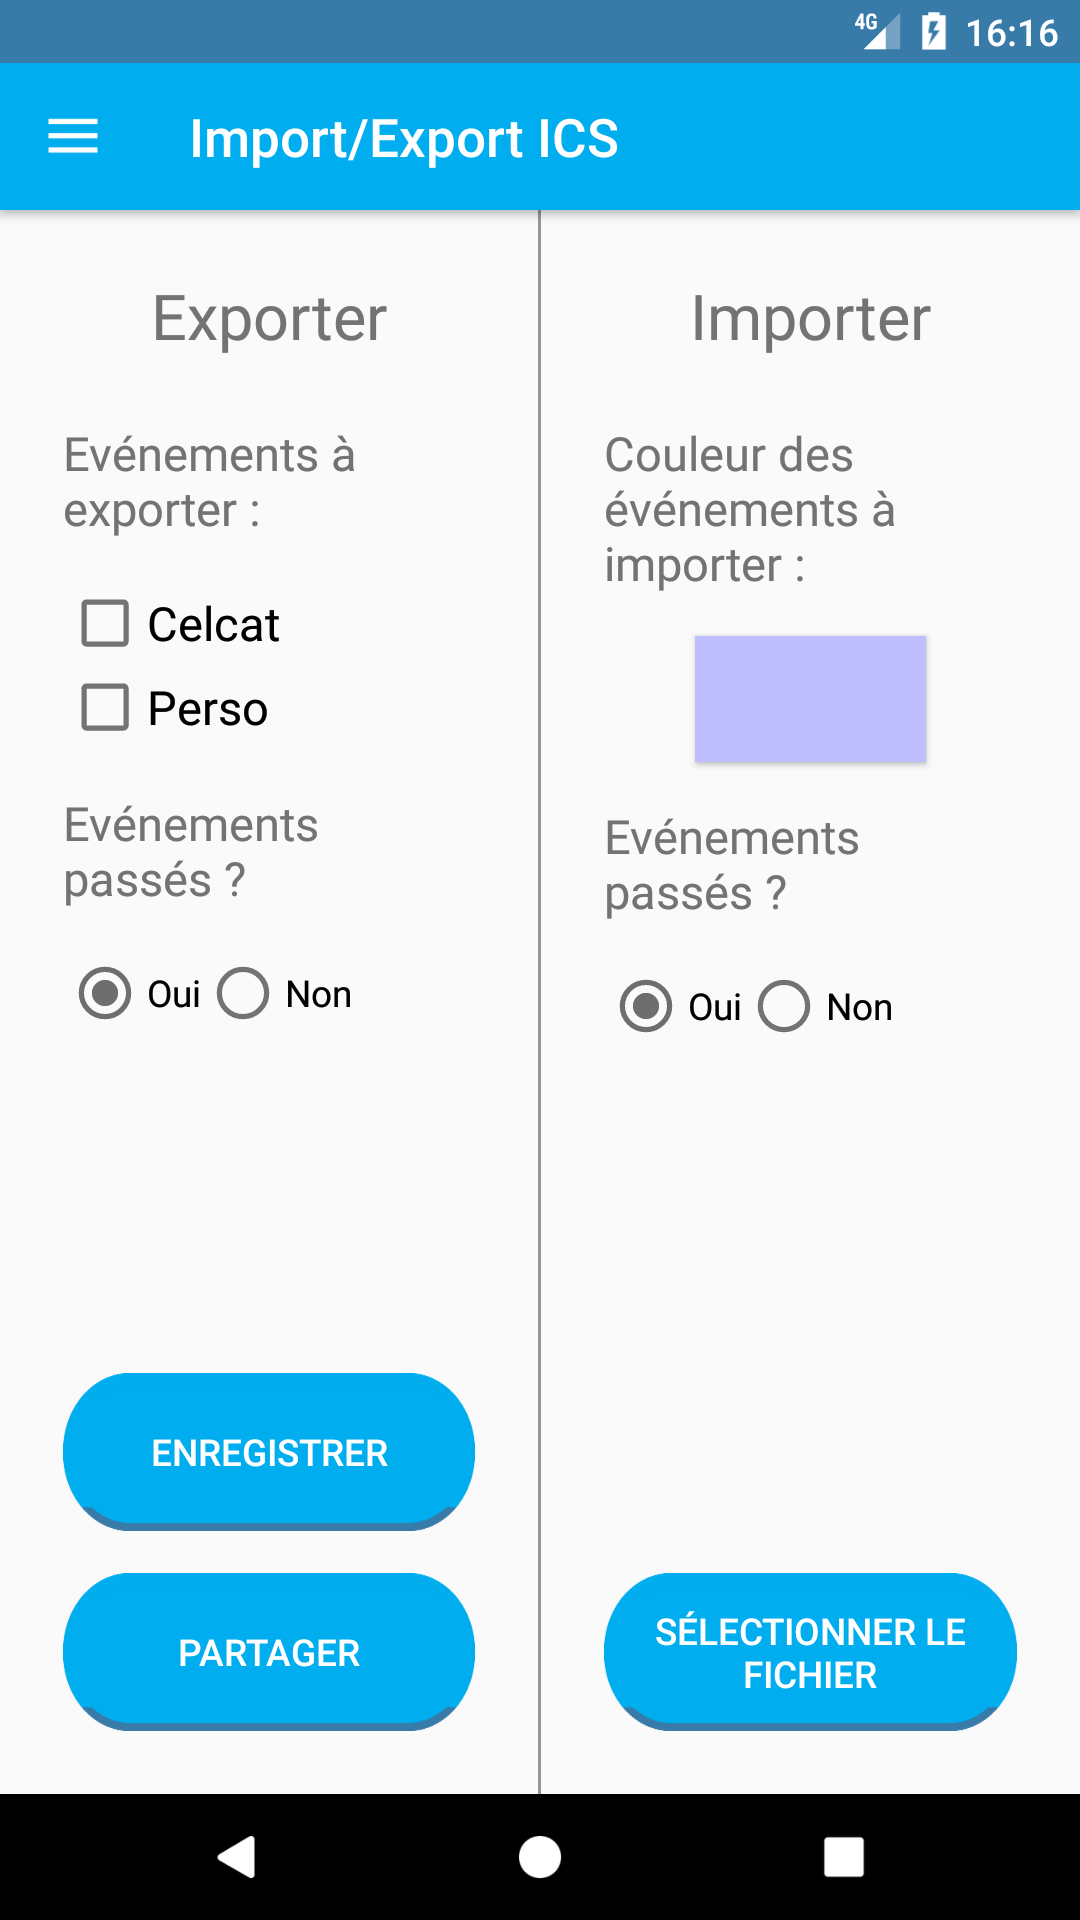
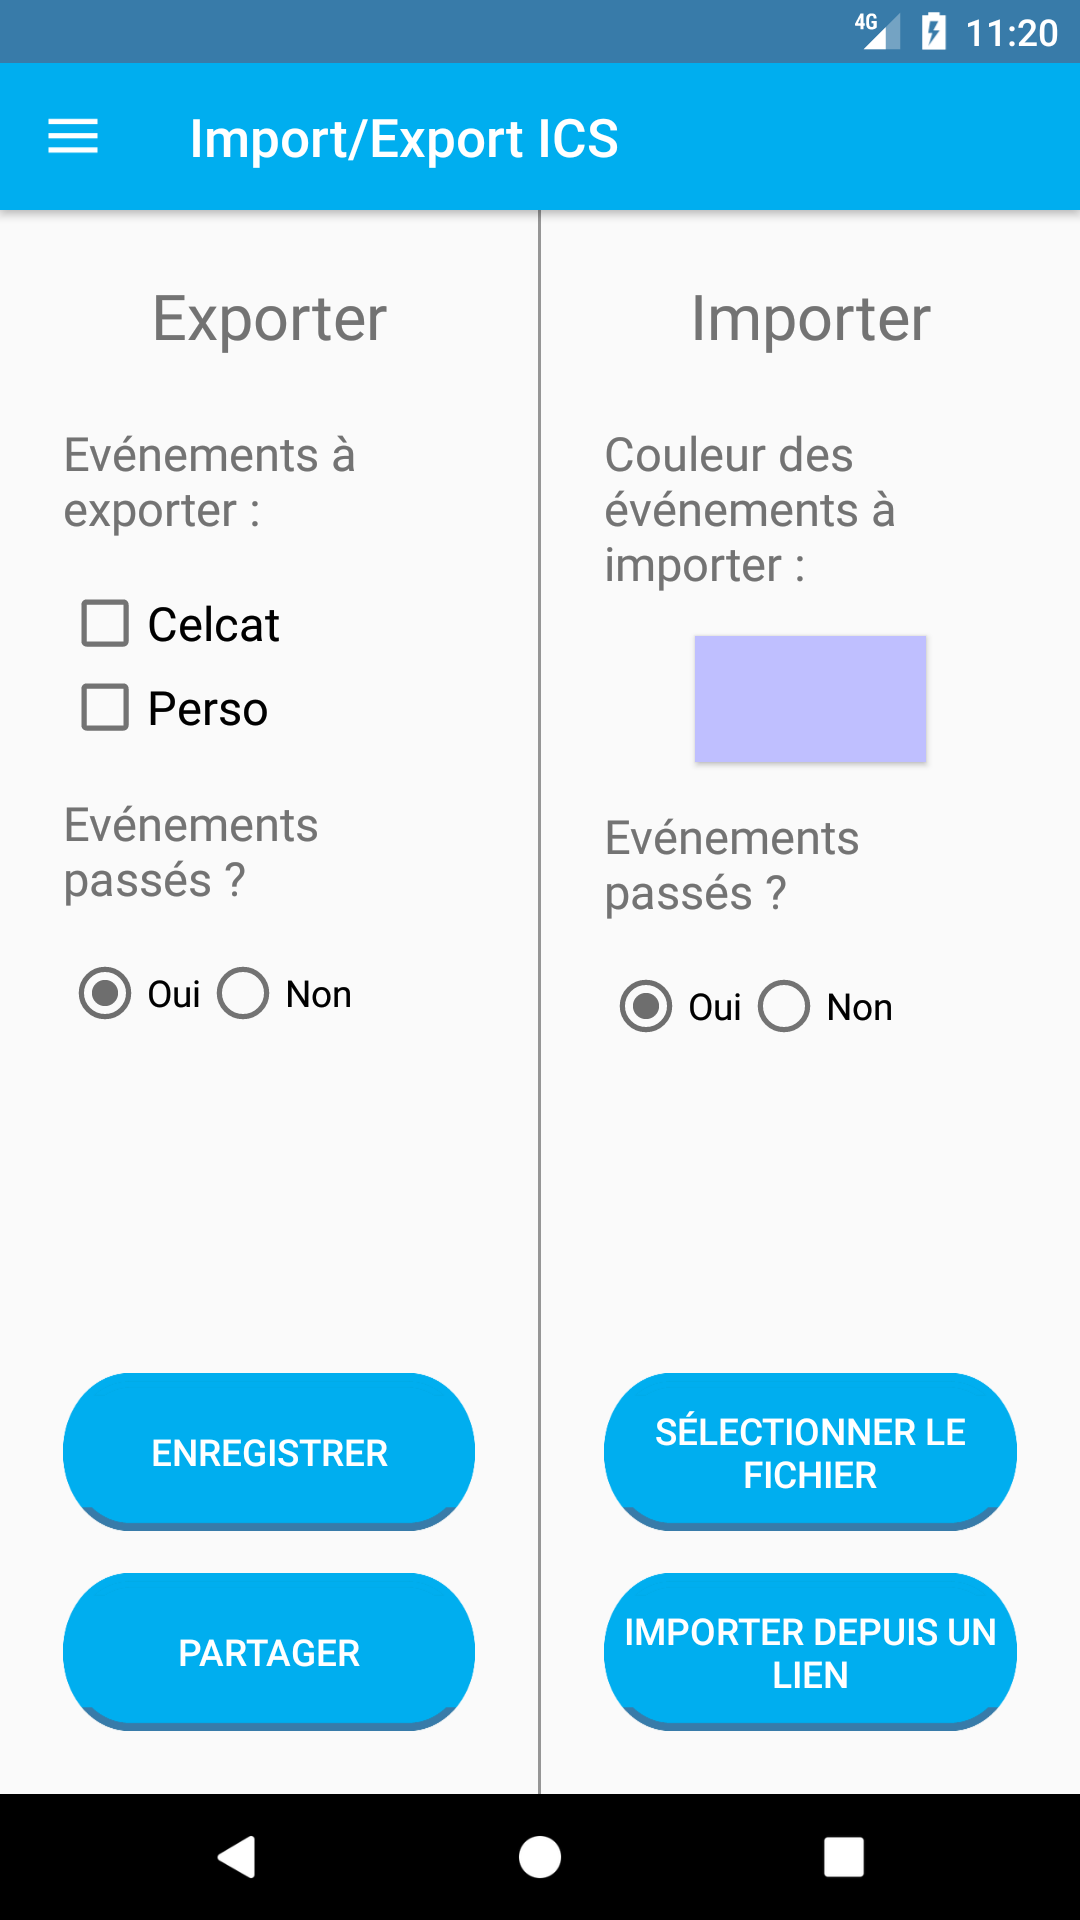
update wiki

Changed region(s): [[0.55, 0.6875, 0.9472, 0.8125], [0.5806, 0.8438, 0.9167, 0.875], [0.9167, 0.0, 0.9778, 0.0312]]

diff --git a/public/css/style.css b/public/css/style.css
@@ -17,6 +17,7 @@ html {
 
 .wiki-image {
     height: 470px;
+    margin: 5px 0px;
 }
 
 .wiki-horizontal {

diff --git a/resources/views/wiki/menu/ics.blade.php b/resources/views/wiki/menu/ics.blade.php
@@ -13,10 +13,10 @@
             <div class="blog-post">
                 <h2 class="blog-post-title">Menu - Import/Export ICS</h2>
                 <p class="blog-post-meta">Modifié pour la dernière fois
-                    le {{\Carbon\Carbon::createFromFormat('d-m-Y', '15-05-2017')->formatLocalized('%A %d %B %Y')}}</p>
+                    le {{\Carbon\Carbon::createFromFormat('d-m-Y', '1-06-2017')->formatLocalized('%A %d %B %Y')}}</p>
                 <p>
                 <p>
-                    Ce bouton vous permet d'exporter votre emploi du temps au format ICS, ou bien d'importer les
+                    Cette vue vous permet d'exporter votre emploi du temps au format ICS, ou bien d'importer les
                     évènements d'un fichier .ics.
                     <br>
                     Différentes options sont disponibles, comme le choix des évènements à exporter, la prise en
@@ -25,10 +25,27 @@
 
                 <img src="{{URL::asset('images/ics.png')}}" alt="" class="wiki-image">
 
+                <p>
+                    <br>
+                    En appuyant sur le bouton importer depuis un lien, vous pouver importer automatiquement les
+                    évènements d'un fichier ics, et choisir une fréquence de synchronisation.
+                </p>
+
+                <img src="{{URL::asset('images/emptyListIcs.png')}}" alt="" class="wiki-image">
+                <img src="{{URL::asset('images/addLinkIcs.png')}}" alt="" class="wiki-image">
+                <img src="{{URL::asset('images/listIcs.png')}}" alt="" class="wiki-image">
+
+                <p>
+                    <br>
+                    Vous pouvez ensuite supprimer ou modifier un des imports automatiques en appuyant dessus.
+                </p>
+                <img src="{{URL::asset('images/editIcs.png')}}" alt="" class="wiki-image">
+
             </div><!-- /.blog-post -->
 
             <a href="{!! route('wiki.menu.pdf') !!}" class="btn btn-primary pull-left">Précédent : Export PDF</a>
-            <a href="{!! route('wiki.menu.ics') !!}" class="btn btn-primary pull-right">Suivant : Import/export ICS</a>
+            <a href="{!! route('wiki.menu.teachers') !!}" class="btn btn-primary pull-right">Suivant : Mes
+                enseignants</a>
             <div><br><br></div>
         </div><!-- /.blog-main -->
         @include('layouts.nav')

diff --git a/resources/views/wiki/menu/teachers.blade.php b/resources/views/wiki/menu/teachers.blade.php
@@ -1,0 +1,42 @@
+@extends('layouts.template')
+@section('title')
+    Wiki -
+@endsection
+@section('content')
+    <div class="blog-header">
+        <h1 class="blog-title">Emploi du temps Paul Sabatier</h1>
+        <p class="lead blog-description">Application de gestion d'emploi du temps</p>
+    </div>
+
+    <div class="row">
+        <div class="col-sm-8 blog-main">
+            <div class="blog-post">
+                <h2 class="blog-post-title">Menu - Mes enseignants</h2>
+                <p class="blog-post-meta">Modifié pour la dernière fois
+                    le {{\Carbon\Carbon::createFromFormat('d-m-Y', '1-06-2017')->formatLocalized('%A %d %B %Y')}}</p>
+                <p>
+                <p>
+                    Cette vue vous permet d'ajouter vos enseignants et de leur envoyer des mails.
+                </p>
+
+                <img src="{{URL::asset('images/teacherListEmpty.png')}}" alt="" class="wiki-image">
+                <img src="{{URL::asset('images/teacherListEmptyButton.png')}}" alt="" class="wiki-image">
+
+                <p>
+                    <br>
+                    Lorsque vous appuyez sur envoyer un mail, vous pouvez choisir les enseignants que vous souhaitez
+                    contacter.
+                </p>
+
+                <img src="{{URL::asset('images/teacherListChoice.png')}}" alt="" class="wiki-image">
+                <img src="{{URL::asset('images/teacherMail.png')}}" alt="" class="wiki-image">
+
+            </div><!-- /.blog-post -->
+
+            <a href="{!! route('wiki.menu.ics') !!}" class="btn btn-primary pull-left">Précédent : Import/export ICS</a>
+            <a href="{!! route('wiki.menu.settings') !!}" class="btn btn-primary pull-right">Suivant : Préférences</a>
+            <div><br><br></div>
+        </div><!-- /.blog-main -->
+        @include('layouts.nav')
+    </div>
+@endsection

diff --git a/resources/views/wiki/menu/settings/index.blade.php b/resources/views/wiki/menu/settings/index.blade.php
@@ -1,0 +1,40 @@
+@extends('layouts.template')
+@section('title')
+    Wiki -
+@endsection
+@section('content')
+    <div class="blog-header">
+        <h1 class="blog-title">Emploi du temps Paul Sabatier</h1>
+        <p class="lead blog-description">Application de gestion d'emploi du temps</p>
+    </div>
+
+    <div class="row">
+        <div class="col-sm-8 blog-main">
+            <div class="blog-post">
+                <h2 class="blog-post-title">Préférences</h2>
+                <p class="blog-post-meta">Modifié pour la dernière fois
+                    le {{\Carbon\Carbon::createFromFormat('d-m-Y', '1-06-2017')->formatLocalized('%A %d %B %Y')}}
+                </p>
+
+                <p>
+                    Il y a plusieurs menus de préférences :
+                </p>
+                <ul>
+                    <li><a href="{!! route('wiki.menu.settings.general') !!}">Général</a></li>
+                    <li><a href="#">Notifications</a></li>
+                    <li><a href="#">Synchronisation</a></li>
+                </ul>
+
+                <img src="{{URL::asset('images/settings.png')}}" alt="" class="wiki-image">
+
+            </div><!-- /.blog-post -->
+
+            <a href="{!! route('wiki.menu.teachers') !!}" class="btn btn-primary pull-left">Précédent : Mes
+                enseignants</a>
+            <a href="{!! route('wiki.menu.settings.general') !!}" class="btn btn-primary pull-right">Suivant :
+                Général</a>
+            <div><br><br></div>
+        </div><!-- /.blog-main -->
+        @include('layouts.nav')
+    </div>
+@endsection

diff --git a/resources/views/wiki/menu/settings/general.blade.php b/resources/views/wiki/menu/settings/general.blade.php
@@ -1,0 +1,33 @@
+@extends('layouts.template')
+@section('title')
+    Wiki -
+@endsection
+@section('content')
+    <div class="blog-header">
+        <h1 class="blog-title">Emploi du temps Paul Sabatier</h1>
+        <p class="lead blog-description">Application de gestion d'emploi du temps</p>
+    </div>
+
+    <div class="row">
+        <div class="col-sm-8 blog-main">
+            <div class="blog-post">
+                <h2 class="blog-post-title">Menu - Préférences - Général</h2>
+                <p class="blog-post-meta">Modifié pour la dernière fois
+                    le {{\Carbon\Carbon::createFromFormat('d-m-Y', '1-06-2017')->formatLocalized('%A %d %B %Y')}}</p>
+                <p>
+                <p>
+                    Cette vue vous permet de modifier votre nom, votre groupe, les couleurs par défaut et d'ajouter
+                    un deuxième emploi du temps.
+                </p>
+
+                <img src="{{URL::asset('images/general.png')}}" alt="" class="wiki-image">
+
+            </div><!-- /.blog-post -->
+
+            <a href="{!! route('wiki.menu.settings') !!}" class="btn btn-primary pull-left">Précédent : Préférences</a>
+            <a href="{!! route('wiki.menu.settings') !!}" class="btn btn-primary pull-right">Suivant : Préférences</a>
+            <div><br><br></div>
+        </div><!-- /.blog-main -->
+        @include('layouts.nav')
+    </div>
+@endsection

diff --git a/resources/views/layouts/nav.blade.php b/resources/views/layouts/nav.blade.php
@@ -34,8 +34,15 @@
                     <li><a href="{!! route('wiki.menu.synchro') !!}">Synchroniser</a></li>
                     <li><a href="{!! route('wiki.menu.pdf') !!}">Export PDF</a></li>
                     <li><a href="{!! route('wiki.menu.ics') !!}">Import/Export ICS</a></li>
-                    <li><a href="#">Mes enseignants</a></li>
-                    <li><a href="#">Préférences</a></li>
+                    <li><a href="{!! route('wiki.menu.teachers') !!}">Mes enseignants</a></li>
+                    <li>
+                        <a href="{!! route('wiki.menu.settings') !!}">Préférences</a>
+                        <ol class="list-nostyle">
+                            <li><a href="{!! route('wiki.menu.settings.general') !!}">Général</a></li>
+                            <li><a href="#"></a></li>
+                            <li><a href="#"></a></li>
+                        </ol>
+                    </li>
                 </ol>
             </li>
         </ol>

diff --git a/routes/web.php b/routes/web.php
@@ -65,9 +65,21 @@ Route::get('/wiki/menu/pdf', function () {
     return view('wiki.menu.pdf');
 })->name('wiki.menu.pdf');
 
-Route::get('/wiki/menu/ics)', function () {
-    return view('wiki.menu.ics)');
-})->name('wiki.menu.ics)');
+Route::get('/wiki/menu/ics', function () {
+    return view('wiki.menu.ics');
+})->name('wiki.menu.ics');
+
+Route::get('/wiki/menu/teachers', function () {
+    return view('wiki.menu.teachers');
+})->name('wiki.menu.teachers');
+
+Route::get('/wiki/menu/settings', function () {
+    return view('wiki.menu.settings.index');
+})->name('wiki.menu.settings');
+
+Route::get('/wiki/menu/settings/general', function () {
+    return view('wiki.menu.settings.general');
+})->name('wiki.menu.settings.general');
 
 
 Route::resource('user', 'UserController');

diff --git a/resources/views/wiki/menu/index.blade.php b/resources/views/wiki/menu/index.blade.php
@@ -26,8 +26,8 @@
                     <li><a href="{!! route('wiki.menu.synchro') !!}">Synchroniser</a></li>
                     <li><a href="{!! route('wiki.menu.pdf') !!}">Export PDF</a></li>
                     <li><a href="{!! route('wiki.menu.ics') !!}">Import/Export ICS</a></li>
-                    <li><a href="#">Mes enseignants</a></li>
-                    <li><a href="#">Préférences</a></li>
+                    <li><a href="{!! route('wiki.menu.teachers') !!}">Mes enseignants</a></li>
+                    <li><a href="{!! route('wiki.menu.settings') !!}">Préférences</a></li>
                 </ul>
 
                 <img src="{{URL::asset('images/menu.png')}}" alt="" class="wiki-image">
